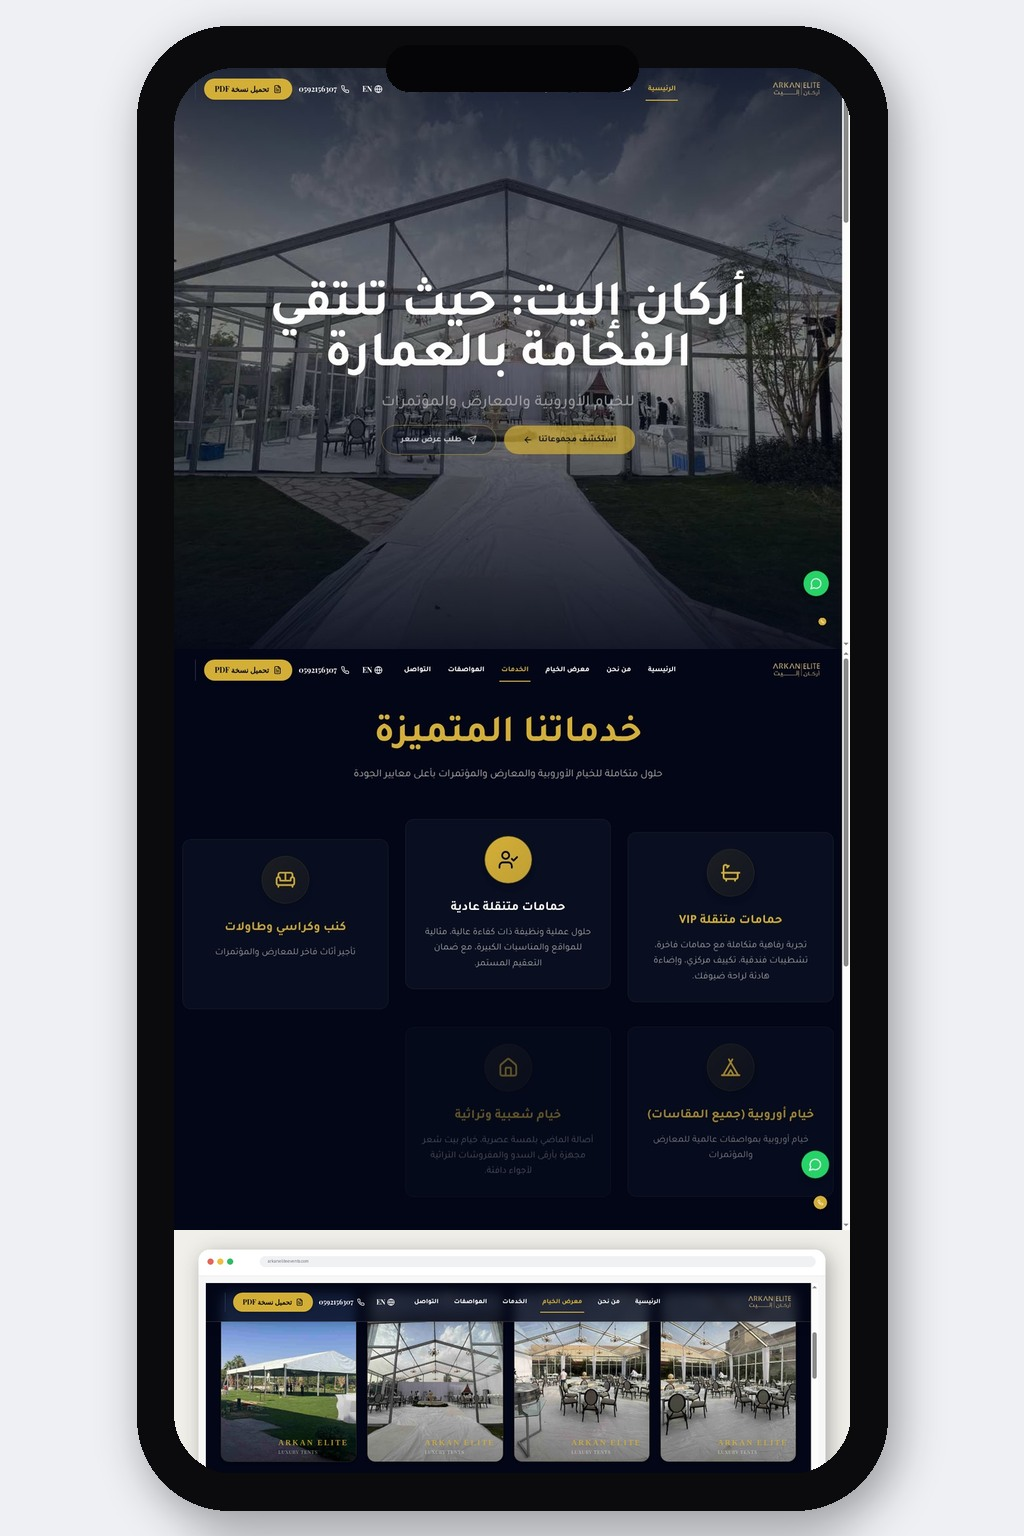
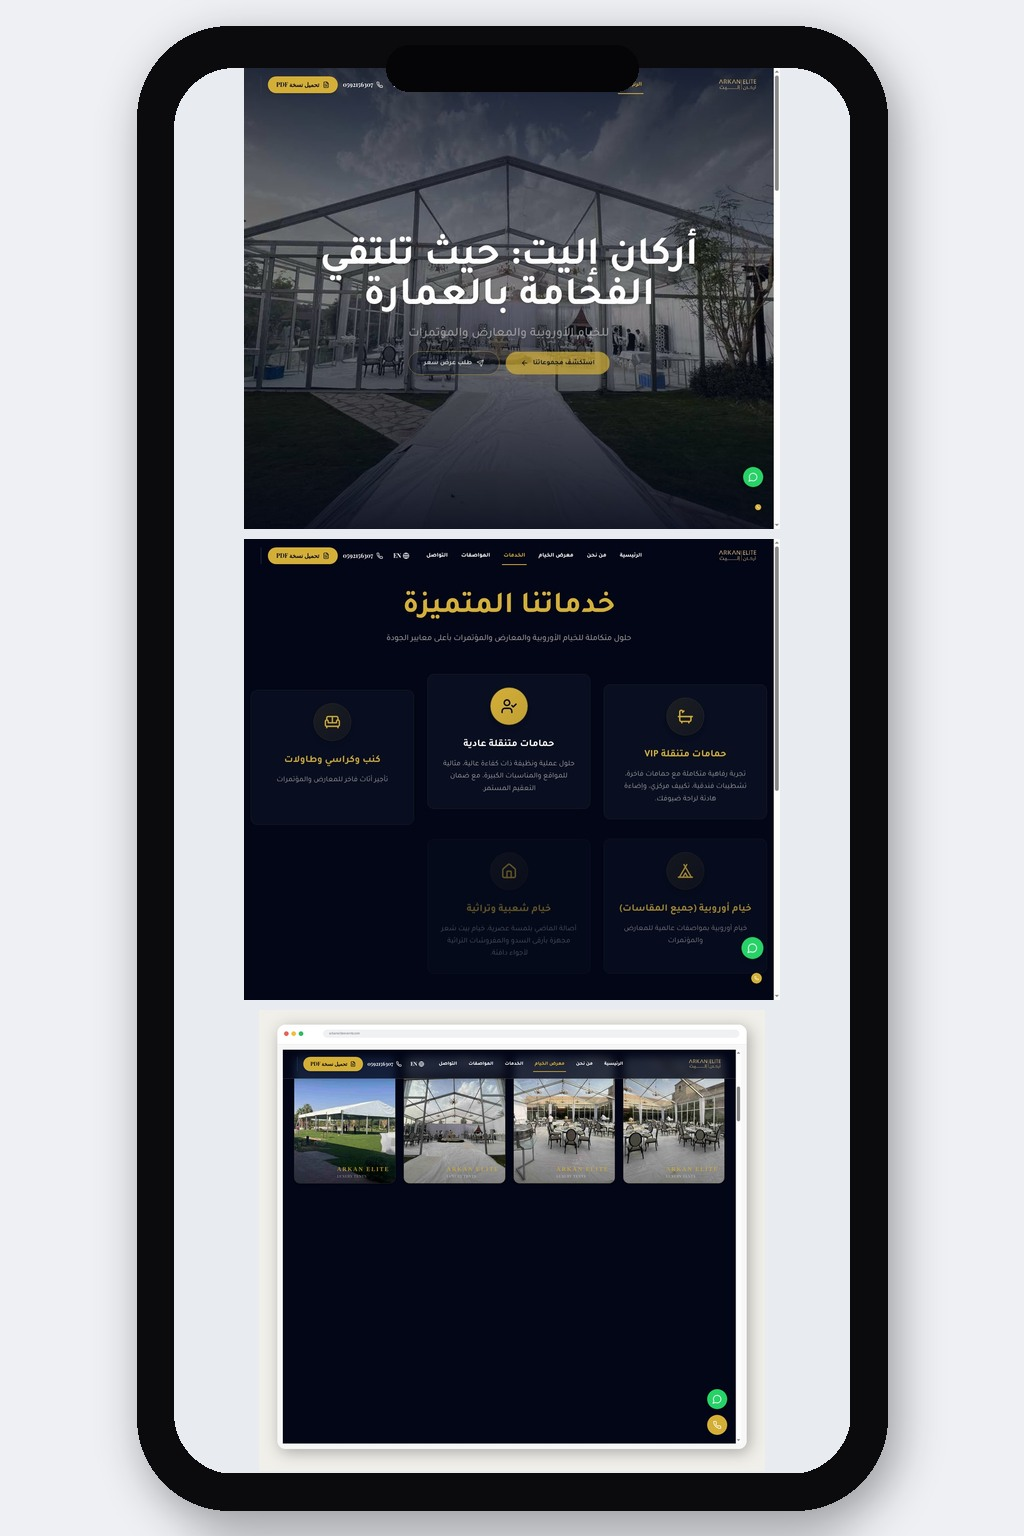
Replace cropped mockups with complete loaded interfaces

diff --git a/client/src/pages/Home.tsx b/client/src/pages/Home.tsx
@@ -234,8 +234,8 @@ const cases: CaseStudy[] = [
       },
       {
         src: assets.arkan.mobile,
-        alt: "لقطة حقيقية من موقع أركان إليت داخل إطار الجوال",
-        label: "لقطة الموقع الفعلية على الجوال",
+        alt: "واجهات مكتملة ومحملة من موقع أركان إليت داخل إطار الجوال",
+        label: "واجهات الموقع المكتملة",
         tone: "tall",
       },
       {
@@ -296,8 +296,8 @@ const cases: CaseStudy[] = [
       },
       {
         src: assets.case2.mobile,
-        alt: "لقطة حية لنسخة الجوال من موقع مؤسسة عالم الفن والهندسة",
-        label: "نسخة الجوال المنشورة",
+        alt: "واجهات مكتملة ومحملة من موقع مؤسسة عالم الفن والهندسة داخل إطار الجوال",
+        label: "واجهات الموقع المكتملة",
         tone: "tall",
       },
       {
@@ -359,8 +359,8 @@ const cases: CaseStudy[] = [
       },
       {
         src: assets.case3.mobile,
-        alt: "لقطة حية لنسخة الجوال من موقع خدمات الياسمين",
-        label: "نسخة الجوال المنشورة",
+        alt: "واجهات مكتملة ومحملة من موقع خدمات الياسمين داخل إطار الجوال",
+        label: "واجهات الموقع المكتملة",
         tone: "tall",
       },
       {
@@ -422,8 +422,8 @@ const cases: CaseStudy[] = [
       },
       {
         src: assets.case4.mobile,
-        alt: "لقطة حقيقية من موقع الصفا للمعادن داخل إطار الجوال",
-        label: "لقطة الموقع الفعلية على الجوال",
+        alt: "واجهات مكتملة ومحملة من موقع الصفا للمعادن داخل إطار الجوال",
+        label: "واجهات الموقع المكتملة",
         tone: "tall",
       },
       {
@@ -478,8 +478,8 @@ const cases: CaseStudy[] = [
       },
       {
         src: assets.case5.mobile,
-        alt: "لقطة حية لنسخة الجوال من موقع صفوة الرياض",
-        label: "نسخة الجوال المنشورة",
+        alt: "واجهات مكتملة ومحملة من موقع صفوة الرياض داخل إطار الجوال",
+        label: "واجهات الموقع المكتملة",
         tone: "tall",
       },
       {
@@ -521,8 +521,8 @@ const cases: CaseStudy[] = [
       },
       {
         src: assets.case6.mobile,
-        alt: "لقطة حية لنسخة الجوال من موقع حصن المملكة",
-        label: "نسخة الجوال المنشورة",
+        alt: "واجهات مكتملة ومحملة من موقع حصن المملكة داخل إطار الجوال",
+        label: "واجهات الموقع المكتملة",
         tone: "tall",
       },
       {
